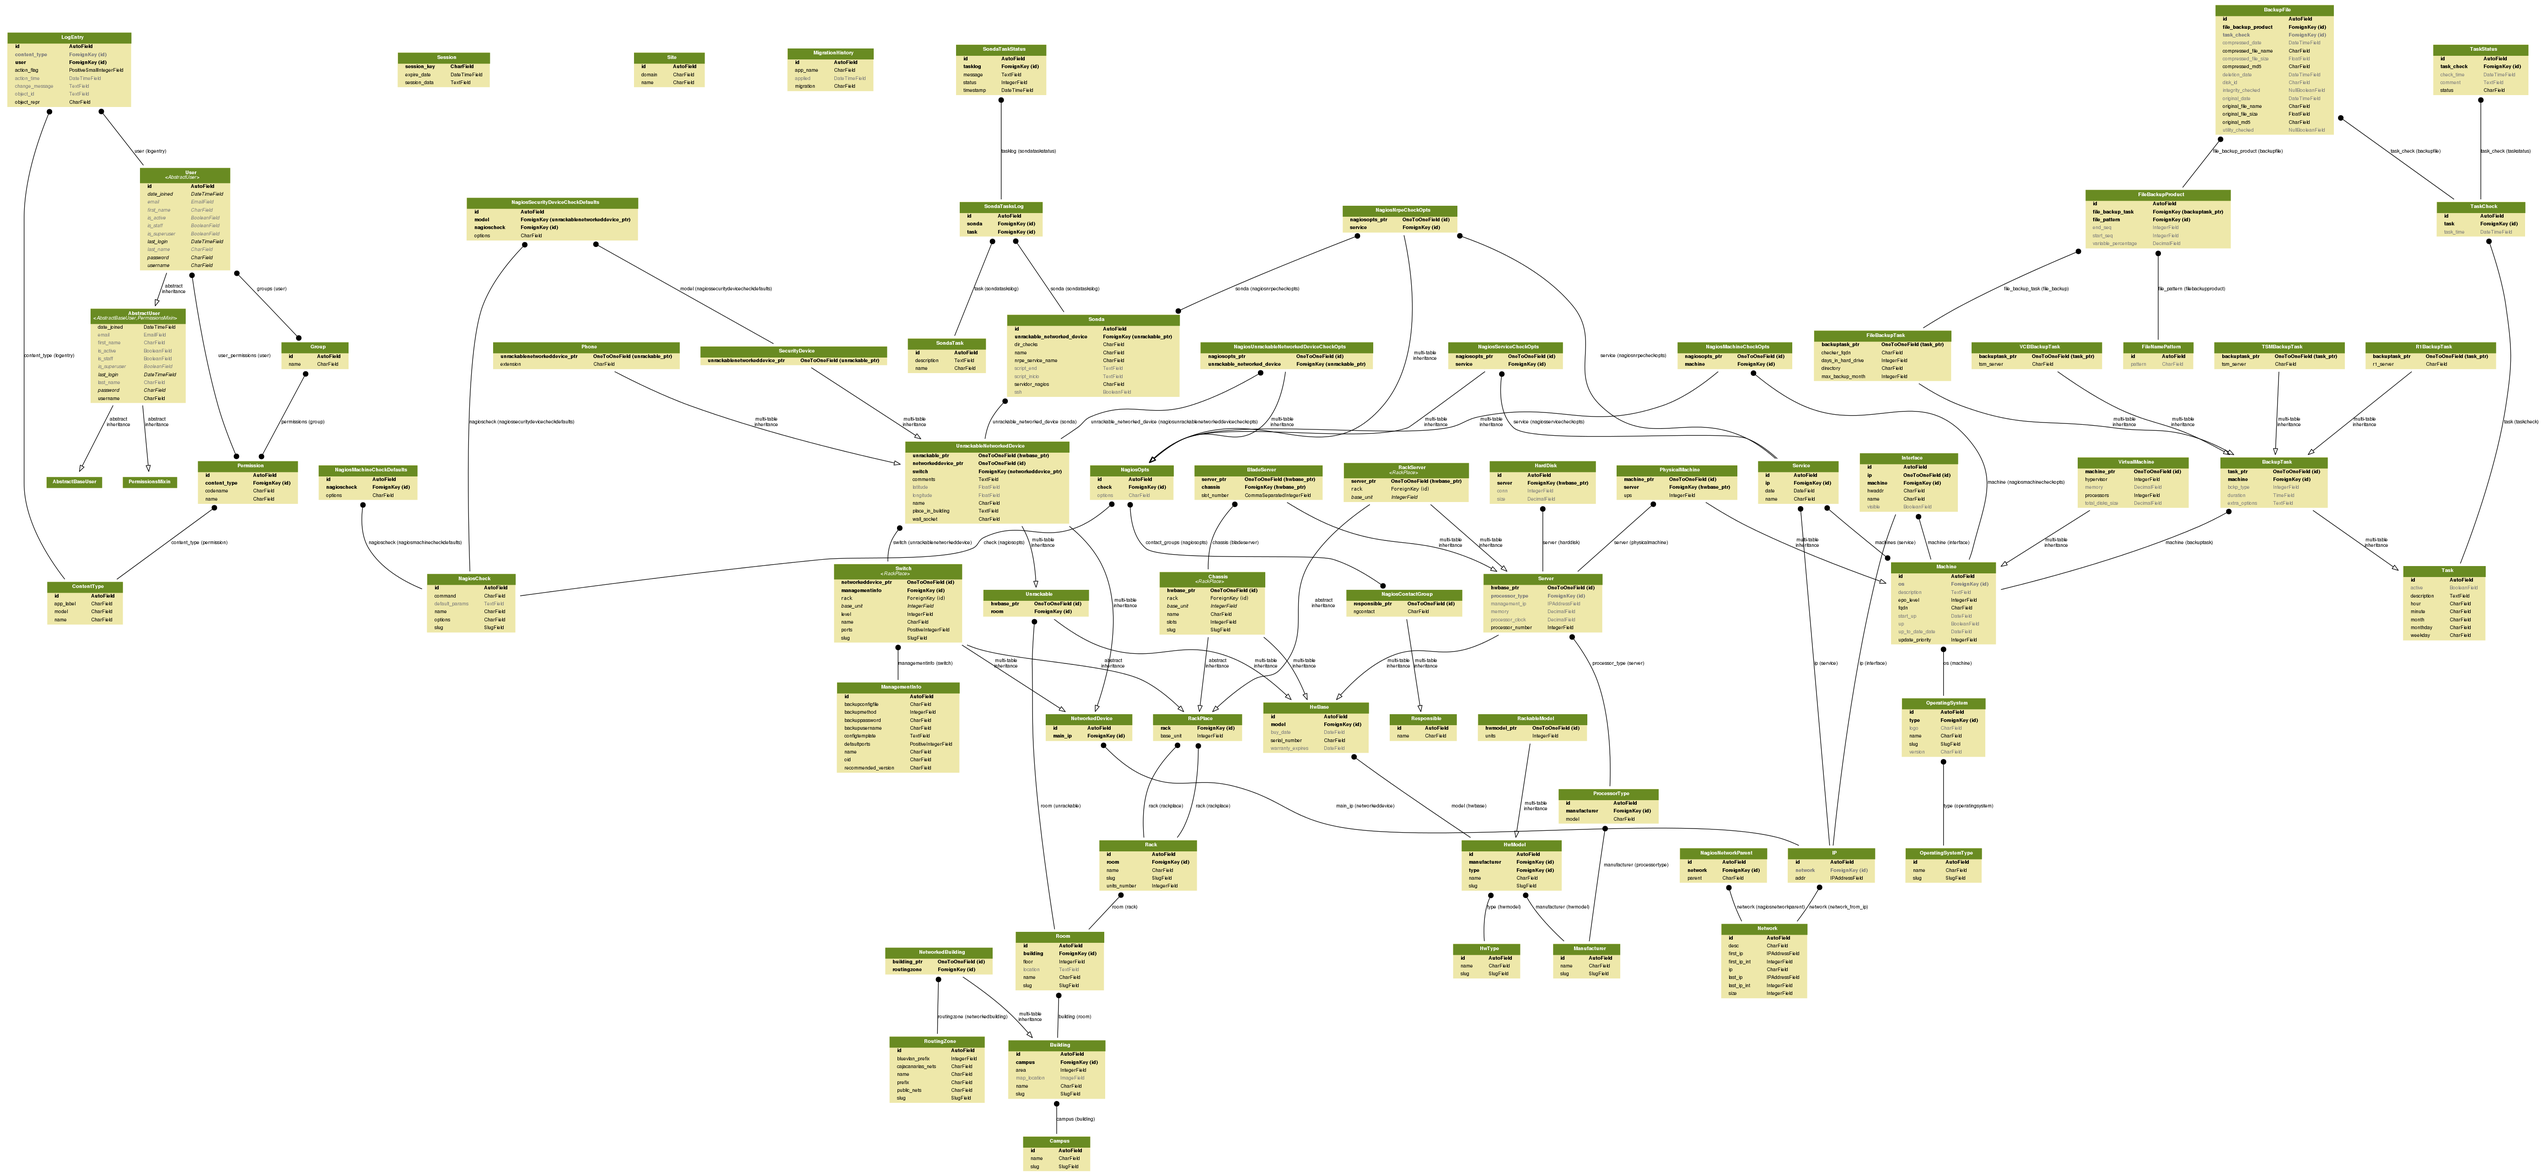
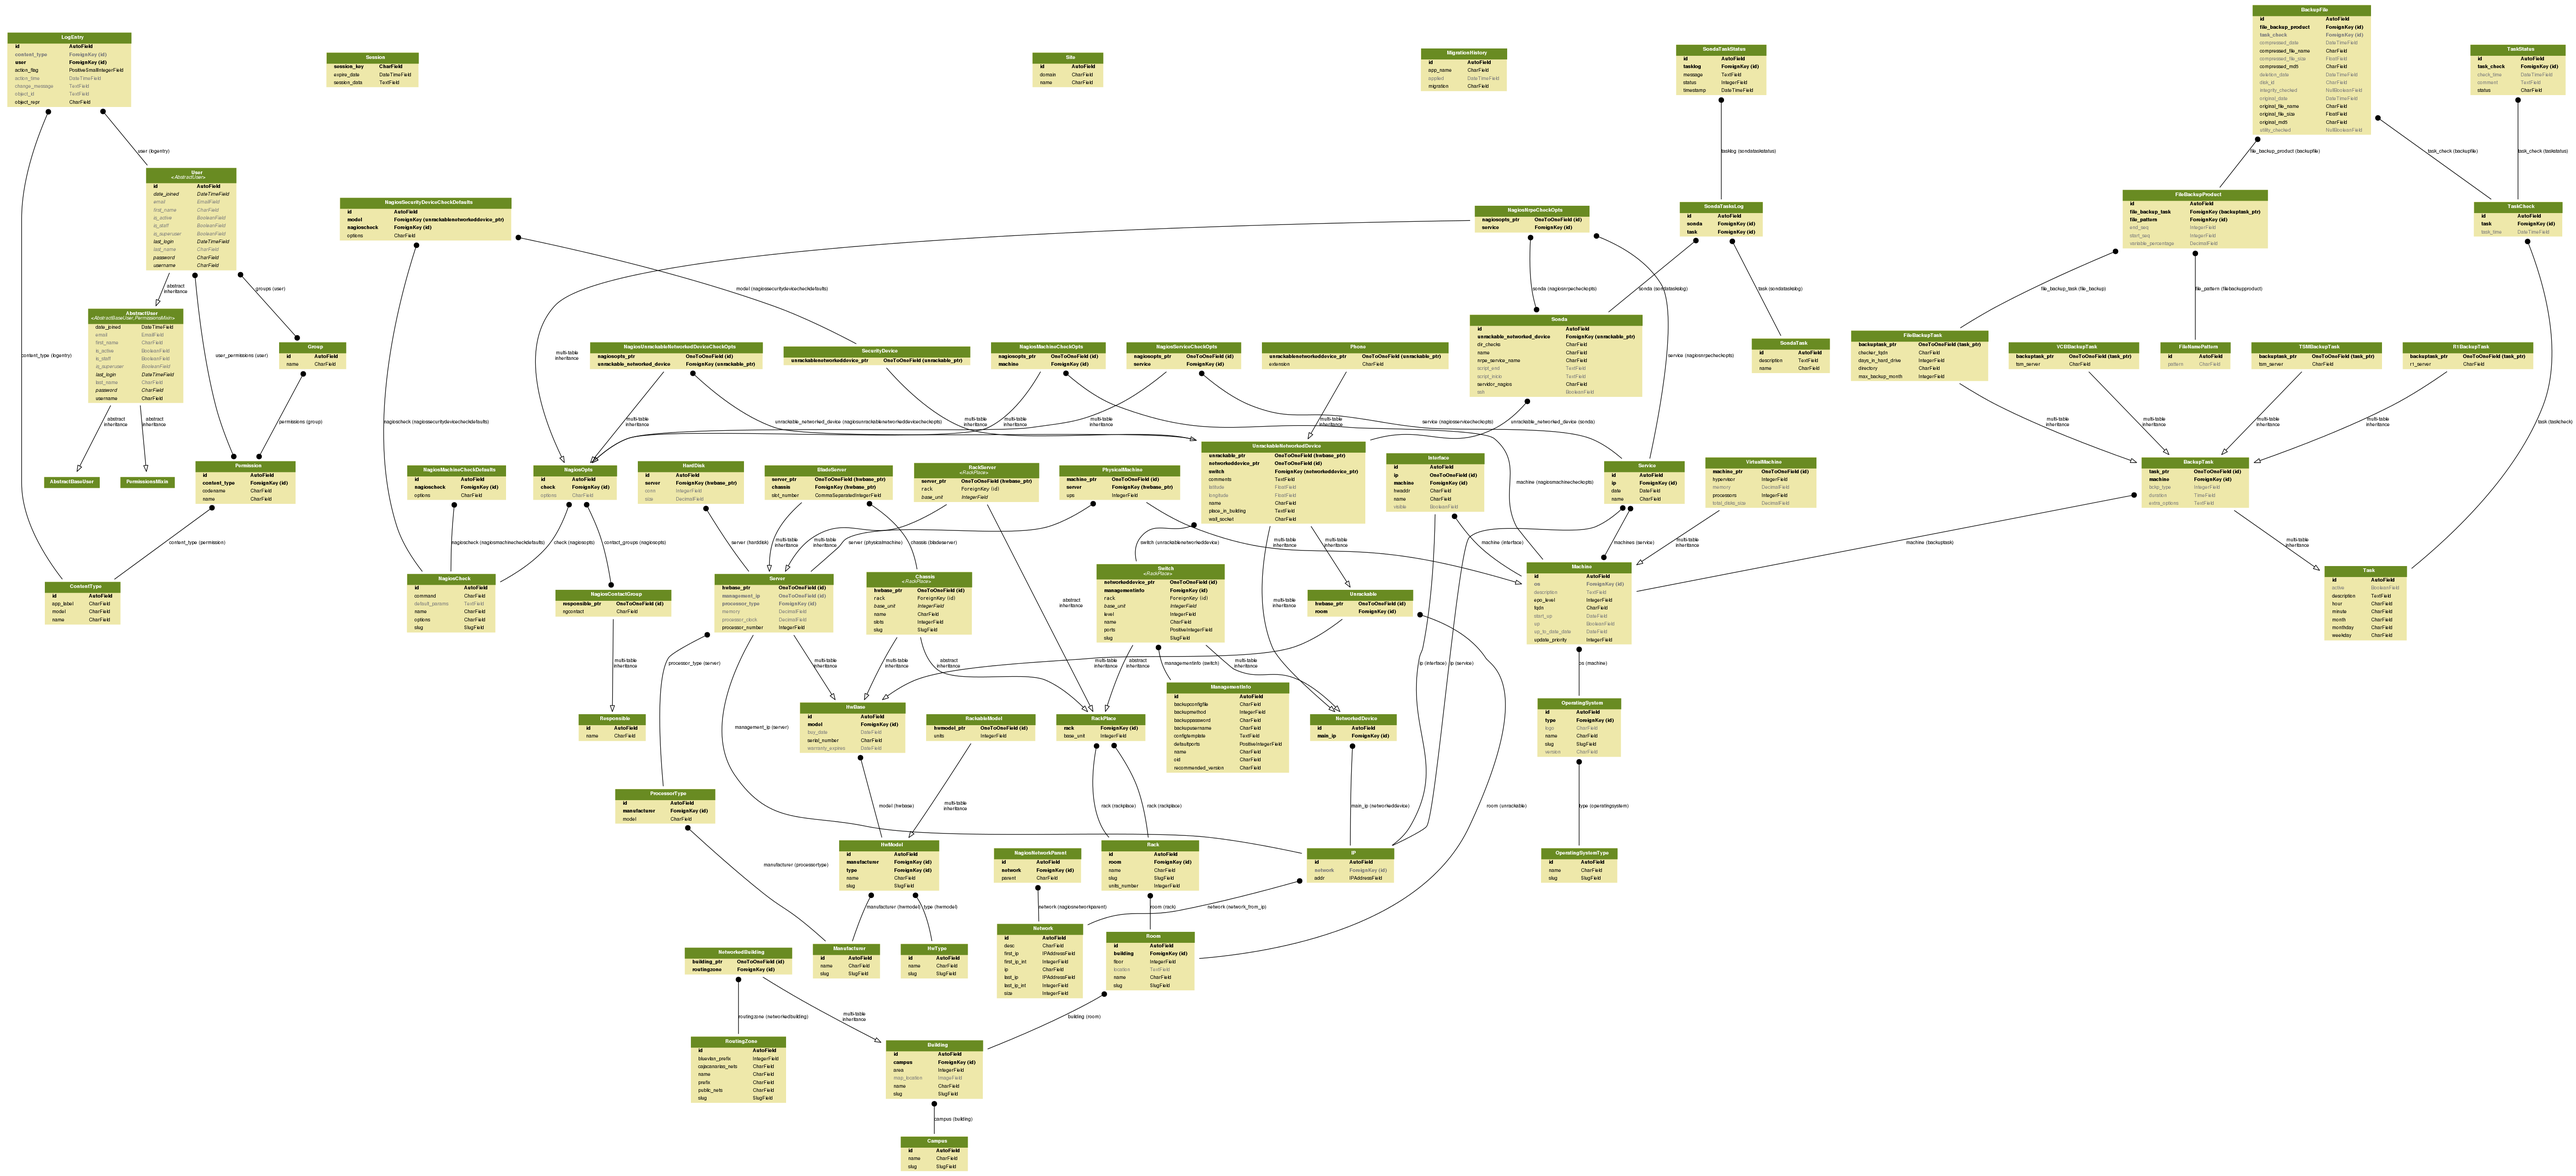
Changed server model to have unified IP and actulized the data models pngs

diff --git a/arritranco/hardware/models.py b/arritranco/hardware/models.py
@@ -7,6 +7,7 @@ from hardware_model.models import HwModel, Manufacturer
 from django.conf import settings
 from django.core.exceptions import ObjectDoesNotExist
 
+
 import logging
 
 logger = logging.getLogger(__name__)
@@ -103,7 +104,8 @@ class Server(HwBase):
     """A generic server"""
     memory = models.DecimalField(max_digits=15, decimal_places=3, blank=True, null=True,
                                  help_text=_('Installed memory in GB'))
-    management_ip = models.IPAddressField(help_text=_(u'Management or DRAC/iLO IP address'), blank=True, null=True)
+    management_ip = models.OneToOneField("inventory.IP", help_text=_(u'Management or DRAC/iLO IP address'),
+                                         blank=True, null=True)
     processor_type = models.ForeignKey("ProcessorType", blank=True, null=True)
     processor_clock = models.DecimalField(_(u"GHz"), max_digits=15, decimal_places=3, blank=True, null=True)
     # Multi CPU servers has the same CPU type
